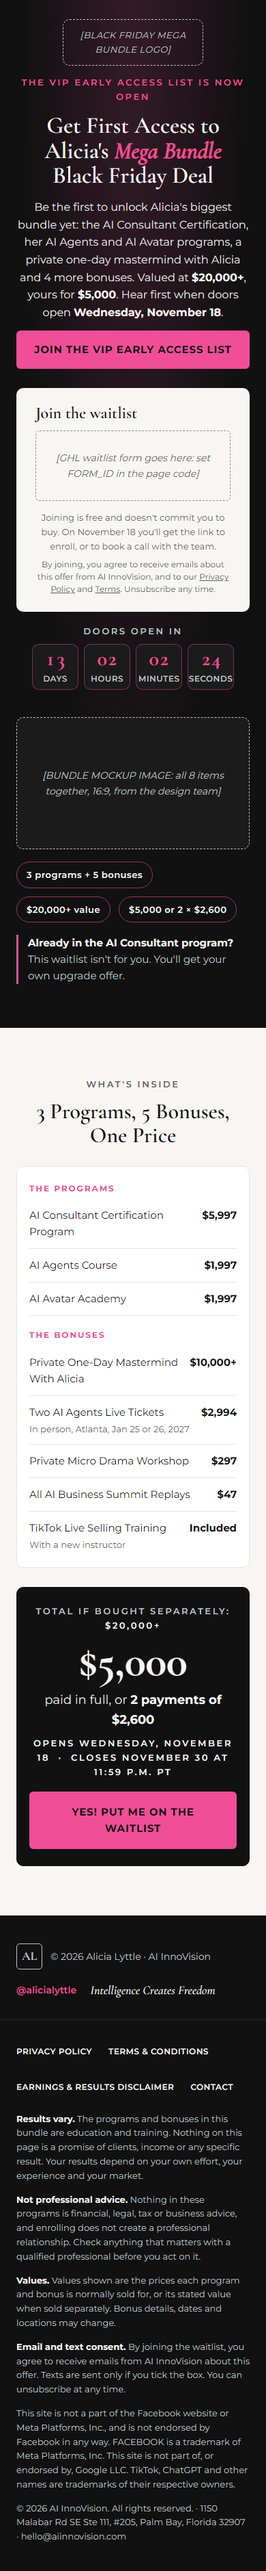
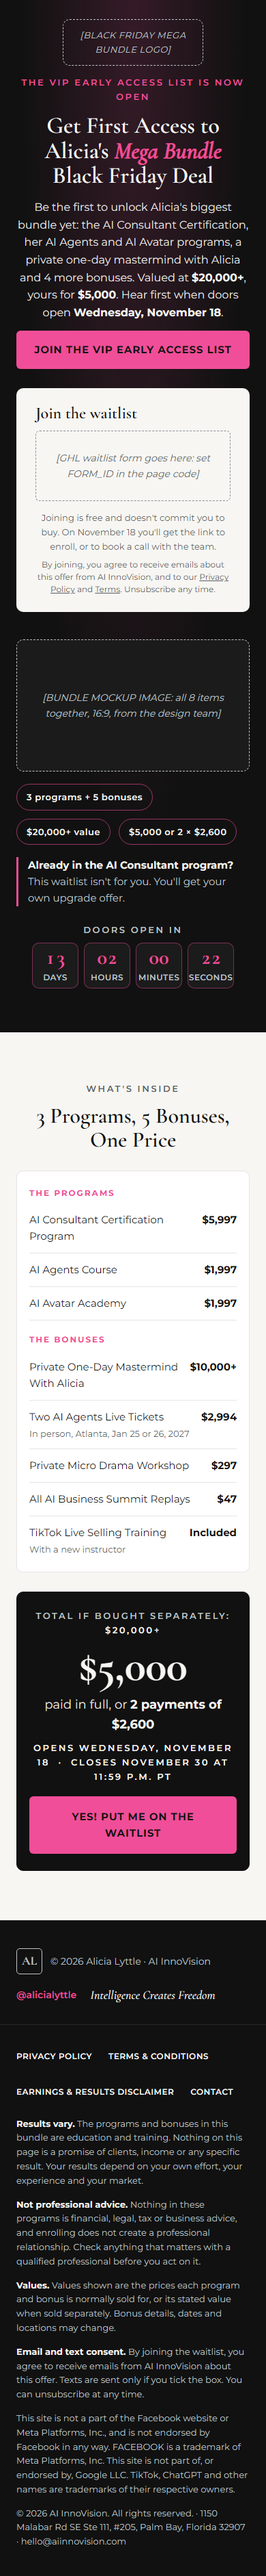
Waitlist: countdown moved to the left column

diff --git a/funnels/mega-bundle-waitlist-nov-2026/ghl/waitlist.ghl.html b/funnels/mega-bundle-waitlist-nov-2026/ghl/waitlist.ghl.html
@@ -150,7 +150,8 @@ body { background: #111111; }
 #ghl-waitlist .mobcta {display:none}
 @media (max-width:640px) {#ghl-waitlist .mobcta {display:inline-block;width:100%;padding:16px 20px}}
 /* countdown (hero) */
-#ghl-waitlist .countdown {display:flex;flex-direction:column;align-items:center;gap:8px}
+#ghl-waitlist .countdown {display:flex;flex-direction:column;align-items:flex-start;gap:8px;margin-top:6px}
+@media (max-width:1000px) {#ghl-waitlist .countdown {align-items:center}}
 #ghl-waitlist .cd-boxes {display:flex;gap:12px}
 #ghl-waitlist .cd {width:84px;box-sizing:border-box;background:#1B1B1B;border:1px solid rgba(240,78,152,.45);border-radius:10px;padding:8px 6px 6px;display:flex;flex-direction:column;align-items:center;gap:4px}
 #ghl-waitlist .cd b {font-family:'Cormorant Garamond',Georgia,serif;font-size:36px;font-weight:700;line-height:1;color:#F04E98;font-variant-numeric:tabular-nums}
@@ -228,14 +229,6 @@ body { background: #111111; }
 <span class="pill">$5,000 or 2 × $2,600</span>
 </div>
 <p style="font-size: 15px; color: #BFC3C7; border-left: 3px solid #F04E98; padding-left: 14px"><strong style="color: #F7F6F3">Already in the AI Consultant program?</strong> This waitlist isn't for you. You'll get your own upgrade offer.</p>
-</div>
-<div class="formcol">
-<div id="register" style="background: #F7F6F3; color: #111111; border-radius: 10px; padding: 24px 28px; box-sizing: border-box; display: flex; flex-direction: column; gap: 8px">
-<h3 style="font-size: 26px; color: #111111; margin-bottom: 4px">Join the waitlist</h3>
-<div id="ghl-form-slot"><!-- GHL form embed is inserted here by the page script (CONFIG.FORM_ID) --></div>
-<p style="font-size: 13px; color: #5A5F63; text-align: center; margin-top: 6px">Joining is free and doesn't commit you to buy. On November 18 you'll get the link to enroll, or to book a call with the team.</p>
-<p style="font-size: 11px; color: #5A5F63; text-align: center; line-height: 1.5">By joining, you agree to receive emails about this offer from AI InnoVision, and to our <a href="https://aiinnovision.com/privacy" style="color: #5A5F63">Privacy Policy</a> and <a href="https://aiinnovision.com/terms" style="color: #5A5F63">Terms</a>. Unsubscribe any time.</p>
-</div>
 <div class="countdown" id="countdown" aria-live="polite">
 <p class="eyebrow" style="color: #BFC3C7">Doors open in</p>
 <div class="cd-boxes">
@@ -244,6 +237,14 @@ body { background: #111111; }
 <div class="cd"><b data-cd="m">--</b><span>Minutes</span></div>
 <div class="cd"><b data-cd="s">--</b><span>Seconds</span></div>
 </div>
+</div>
+</div>
+<div class="formcol">
+<div id="register" style="background: #F7F6F3; color: #111111; border-radius: 10px; padding: 24px 28px; box-sizing: border-box; display: flex; flex-direction: column; gap: 8px">
+<h3 style="font-size: 26px; color: #111111; margin-bottom: 4px">Join the waitlist</h3>
+<div id="ghl-form-slot"><!-- GHL form embed is inserted here by the page script (CONFIG.FORM_ID) --></div>
+<p style="font-size: 13px; color: #5A5F63; text-align: center; margin-top: 6px">Joining is free and doesn't commit you to buy. On November 18 you'll get the link to enroll, or to book a call with the team.</p>
+<p style="font-size: 11px; color: #5A5F63; text-align: center; line-height: 1.5">By joining, you agree to receive emails about this offer from AI InnoVision, and to our <a href="https://aiinnovision.com/privacy" style="color: #5A5F63">Privacy Policy</a> and <a href="https://aiinnovision.com/terms" style="color: #5A5F63">Terms</a>. Unsubscribe any time.</p>
 </div>
 </div>
 </div>

diff --git a/funnels/mega-bundle-waitlist-nov-2026/design/waitlist.html b/funnels/mega-bundle-waitlist-nov-2026/design/waitlist.html
@@ -101,7 +101,8 @@ details summary::-webkit-details-marker{display:none}
 .mobcta{display:none}
 @media (max-width:640px){.mobcta{display:inline-block;width:100%;padding:16px 20px}}
 /* countdown (hero) */
-.countdown{display:flex;flex-direction:column;align-items:center;gap:8px}
+.countdown{display:flex;flex-direction:column;align-items:flex-start;gap:8px;margin-top:6px}
+@media (max-width:1000px){.countdown{align-items:center}}
 .cd-boxes{display:flex;gap:12px}
 .cd{width:84px;box-sizing:border-box;background:#1B1B1B;border:1px solid rgba(240,78,152,.45);border-radius:10px;padding:8px 6px 6px;display:flex;flex-direction:column;align-items:center;gap:4px}
 .cd b{font-family:'Cormorant Garamond',Georgia,serif;font-size:36px;font-weight:700;line-height:1;color:#F04E98;font-variant-numeric:tabular-nums}
@@ -160,14 +161,6 @@ details summary::-webkit-details-marker{display:none}
 <span class="pill">$5,000 or 2 × $2,600</span>
 </div>
 <p style="font-size: 15px; color: #BFC3C7; border-left: 3px solid #F04E98; padding-left: 14px"><strong style="color: #F7F6F3">Already in the AI Consultant program?</strong> This waitlist isn't for you. You'll get your own upgrade offer.</p>
-</div>
-<div class="formcol">
-<div id="register" style="background: #F7F6F3; color: #111111; border-radius: 10px; padding: 24px 28px; box-sizing: border-box; display: flex; flex-direction: column; gap: 8px">
-<h3 style="font-size: 26px; color: #111111; margin-bottom: 4px">Join the waitlist</h3>
-<div id="ghl-form-slot"><!-- GHL form embed is inserted here by the page script (CONFIG.FORM_ID) --></div>
-<p style="font-size: 13px; color: #5A5F63; text-align: center; margin-top: 6px">Joining is free and doesn't commit you to buy. On November 18 you'll get the link to enroll, or to book a call with the team.</p>
-<p style="font-size: 11px; color: #5A5F63; text-align: center; line-height: 1.5">By joining, you agree to receive emails about this offer from AI InnoVision, and to our <a href="https://aiinnovision.com/privacy" style="color: #5A5F63">Privacy Policy</a> and <a href="https://aiinnovision.com/terms" style="color: #5A5F63">Terms</a>. Unsubscribe any time.</p>
-</div>
 <div class="countdown" id="countdown" aria-live="polite">
 <p class="eyebrow" style="color: #BFC3C7">Doors open in</p>
 <div class="cd-boxes">
@@ -176,6 +169,14 @@ details summary::-webkit-details-marker{display:none}
 <div class="cd"><b data-cd="m">--</b><span>Minutes</span></div>
 <div class="cd"><b data-cd="s">--</b><span>Seconds</span></div>
 </div>
+</div>
+</div>
+<div class="formcol">
+<div id="register" style="background: #F7F6F3; color: #111111; border-radius: 10px; padding: 24px 28px; box-sizing: border-box; display: flex; flex-direction: column; gap: 8px">
+<h3 style="font-size: 26px; color: #111111; margin-bottom: 4px">Join the waitlist</h3>
+<div id="ghl-form-slot"><!-- GHL form embed is inserted here by the page script (CONFIG.FORM_ID) --></div>
+<p style="font-size: 13px; color: #5A5F63; text-align: center; margin-top: 6px">Joining is free and doesn't commit you to buy. On November 18 you'll get the link to enroll, or to book a call with the team.</p>
+<p style="font-size: 11px; color: #5A5F63; text-align: center; line-height: 1.5">By joining, you agree to receive emails about this offer from AI InnoVision, and to our <a href="https://aiinnovision.com/privacy" style="color: #5A5F63">Privacy Policy</a> and <a href="https://aiinnovision.com/terms" style="color: #5A5F63">Terms</a>. Unsubscribe any time.</p>
 </div>
 </div>
 </div>

diff --git a/funnels/mega-bundle-waitlist-nov-2026/preview/1-waitlist.html b/funnels/mega-bundle-waitlist-nov-2026/preview/1-waitlist.html
@@ -101,7 +101,8 @@ details summary::-webkit-details-marker{display:none}
 .mobcta{display:none}
 @media (max-width:640px){.mobcta{display:inline-block;width:100%;padding:16px 20px}}
 /* countdown (hero) */
-.countdown{display:flex;flex-direction:column;align-items:center;gap:8px}
+.countdown{display:flex;flex-direction:column;align-items:flex-start;gap:8px;margin-top:6px}
+@media (max-width:1000px){.countdown{align-items:center}}
 .cd-boxes{display:flex;gap:12px}
 .cd{width:84px;box-sizing:border-box;background:#1B1B1B;border:1px solid rgba(240,78,152,.45);border-radius:10px;padding:8px 6px 6px;display:flex;flex-direction:column;align-items:center;gap:4px}
 .cd b{font-family:'Cormorant Garamond',Georgia,serif;font-size:36px;font-weight:700;line-height:1;color:#F04E98;font-variant-numeric:tabular-nums}
@@ -160,6 +161,15 @@ details summary::-webkit-details-marker{display:none}
 <span class="pill">$5,000 or 2 × $2,600</span>
 </div>
 <p style="font-size: 15px; color: #BFC3C7; border-left: 3px solid #F04E98; padding-left: 14px"><strong style="color: #F7F6F3">Already in the AI Consultant program?</strong> This waitlist isn't for you. You'll get your own upgrade offer.</p>
+<div class="countdown" id="countdown" aria-live="polite">
+<p class="eyebrow" style="color: #BFC3C7">Doors open in</p>
+<div class="cd-boxes">
+<div class="cd"><b data-cd="d">--</b><span>Days</span></div>
+<div class="cd"><b data-cd="h">--</b><span>Hours</span></div>
+<div class="cd"><b data-cd="m">--</b><span>Minutes</span></div>
+<div class="cd"><b data-cd="s">--</b><span>Seconds</span></div>
+</div>
+</div>
 </div>
 <div class="formcol">
 <div id="register" style="background: #F7F6F3; color: #111111; border-radius: 10px; padding: 24px 28px; box-sizing: border-box; display: flex; flex-direction: column; gap: 8px">
@@ -173,15 +183,6 @@ details summary::-webkit-details-marker{display:none}
 </form>
 <p style="font-size: 13px; color: #5A5F63; text-align: center; margin-top: 6px">Joining is free and doesn't commit you to buy. On November 18 you'll get the link to enroll, or to book a call with the team.</p>
 <p style="font-size: 11px; color: #5A5F63; text-align: center; line-height: 1.5">By joining, you agree to receive emails about this offer from AI InnoVision, and to our <a href="https://aiinnovision.com/privacy" style="color: #5A5F63">Privacy Policy</a> and <a href="https://aiinnovision.com/terms" style="color: #5A5F63">Terms</a>. Unsubscribe any time.</p>
-</div>
-<div class="countdown" id="countdown" aria-live="polite">
-<p class="eyebrow" style="color: #BFC3C7">Doors open in</p>
-<div class="cd-boxes">
-<div class="cd"><b data-cd="d">--</b><span>Days</span></div>
-<div class="cd"><b data-cd="h">--</b><span>Hours</span></div>
-<div class="cd"><b data-cd="m">--</b><span>Minutes</span></div>
-<div class="cd"><b data-cd="s">--</b><span>Seconds</span></div>
-</div>
 </div>
 </div>
 </div>

diff --git a/funnels/mega-bundle-waitlist-nov-2026/README.md b/funnels/mega-bundle-waitlist-nov-2026/README.md
@@ -43,7 +43,7 @@ One 16:9 image of the whole bundle (like last year's mockup), for the hero box `
 
 ## Countdown
 
-Countdown sits **under the form** (right column on desktop; after the form on phones), counting to **Wed Nov 18, 2026, 1:00 PM ET** (`COUNTDOWN_CONFIG.OPENS_AT` = `2026-11-18T13:00:00-05:00` in the page code). After that time it shows "The Mega Bundle is open. Check your email for your link." Change both values in the CONFIG block if the opening time changes.
+Countdown sits in the **left column under the mockup, chips and consultant line** (desktop); on phones it comes after the form, counting to **Wed Nov 18, 2026, 1:00 PM ET** (`COUNTDOWN_CONFIG.OPENS_AT` = `2026-11-18T13:00:00-05:00` in the page code). After that time it shows "The Mega Bundle is open. Check your email for your link." Change both values in the CONFIG block if the opening time changes.
 
 ## Mobile (checked 2026-11-05)
 
